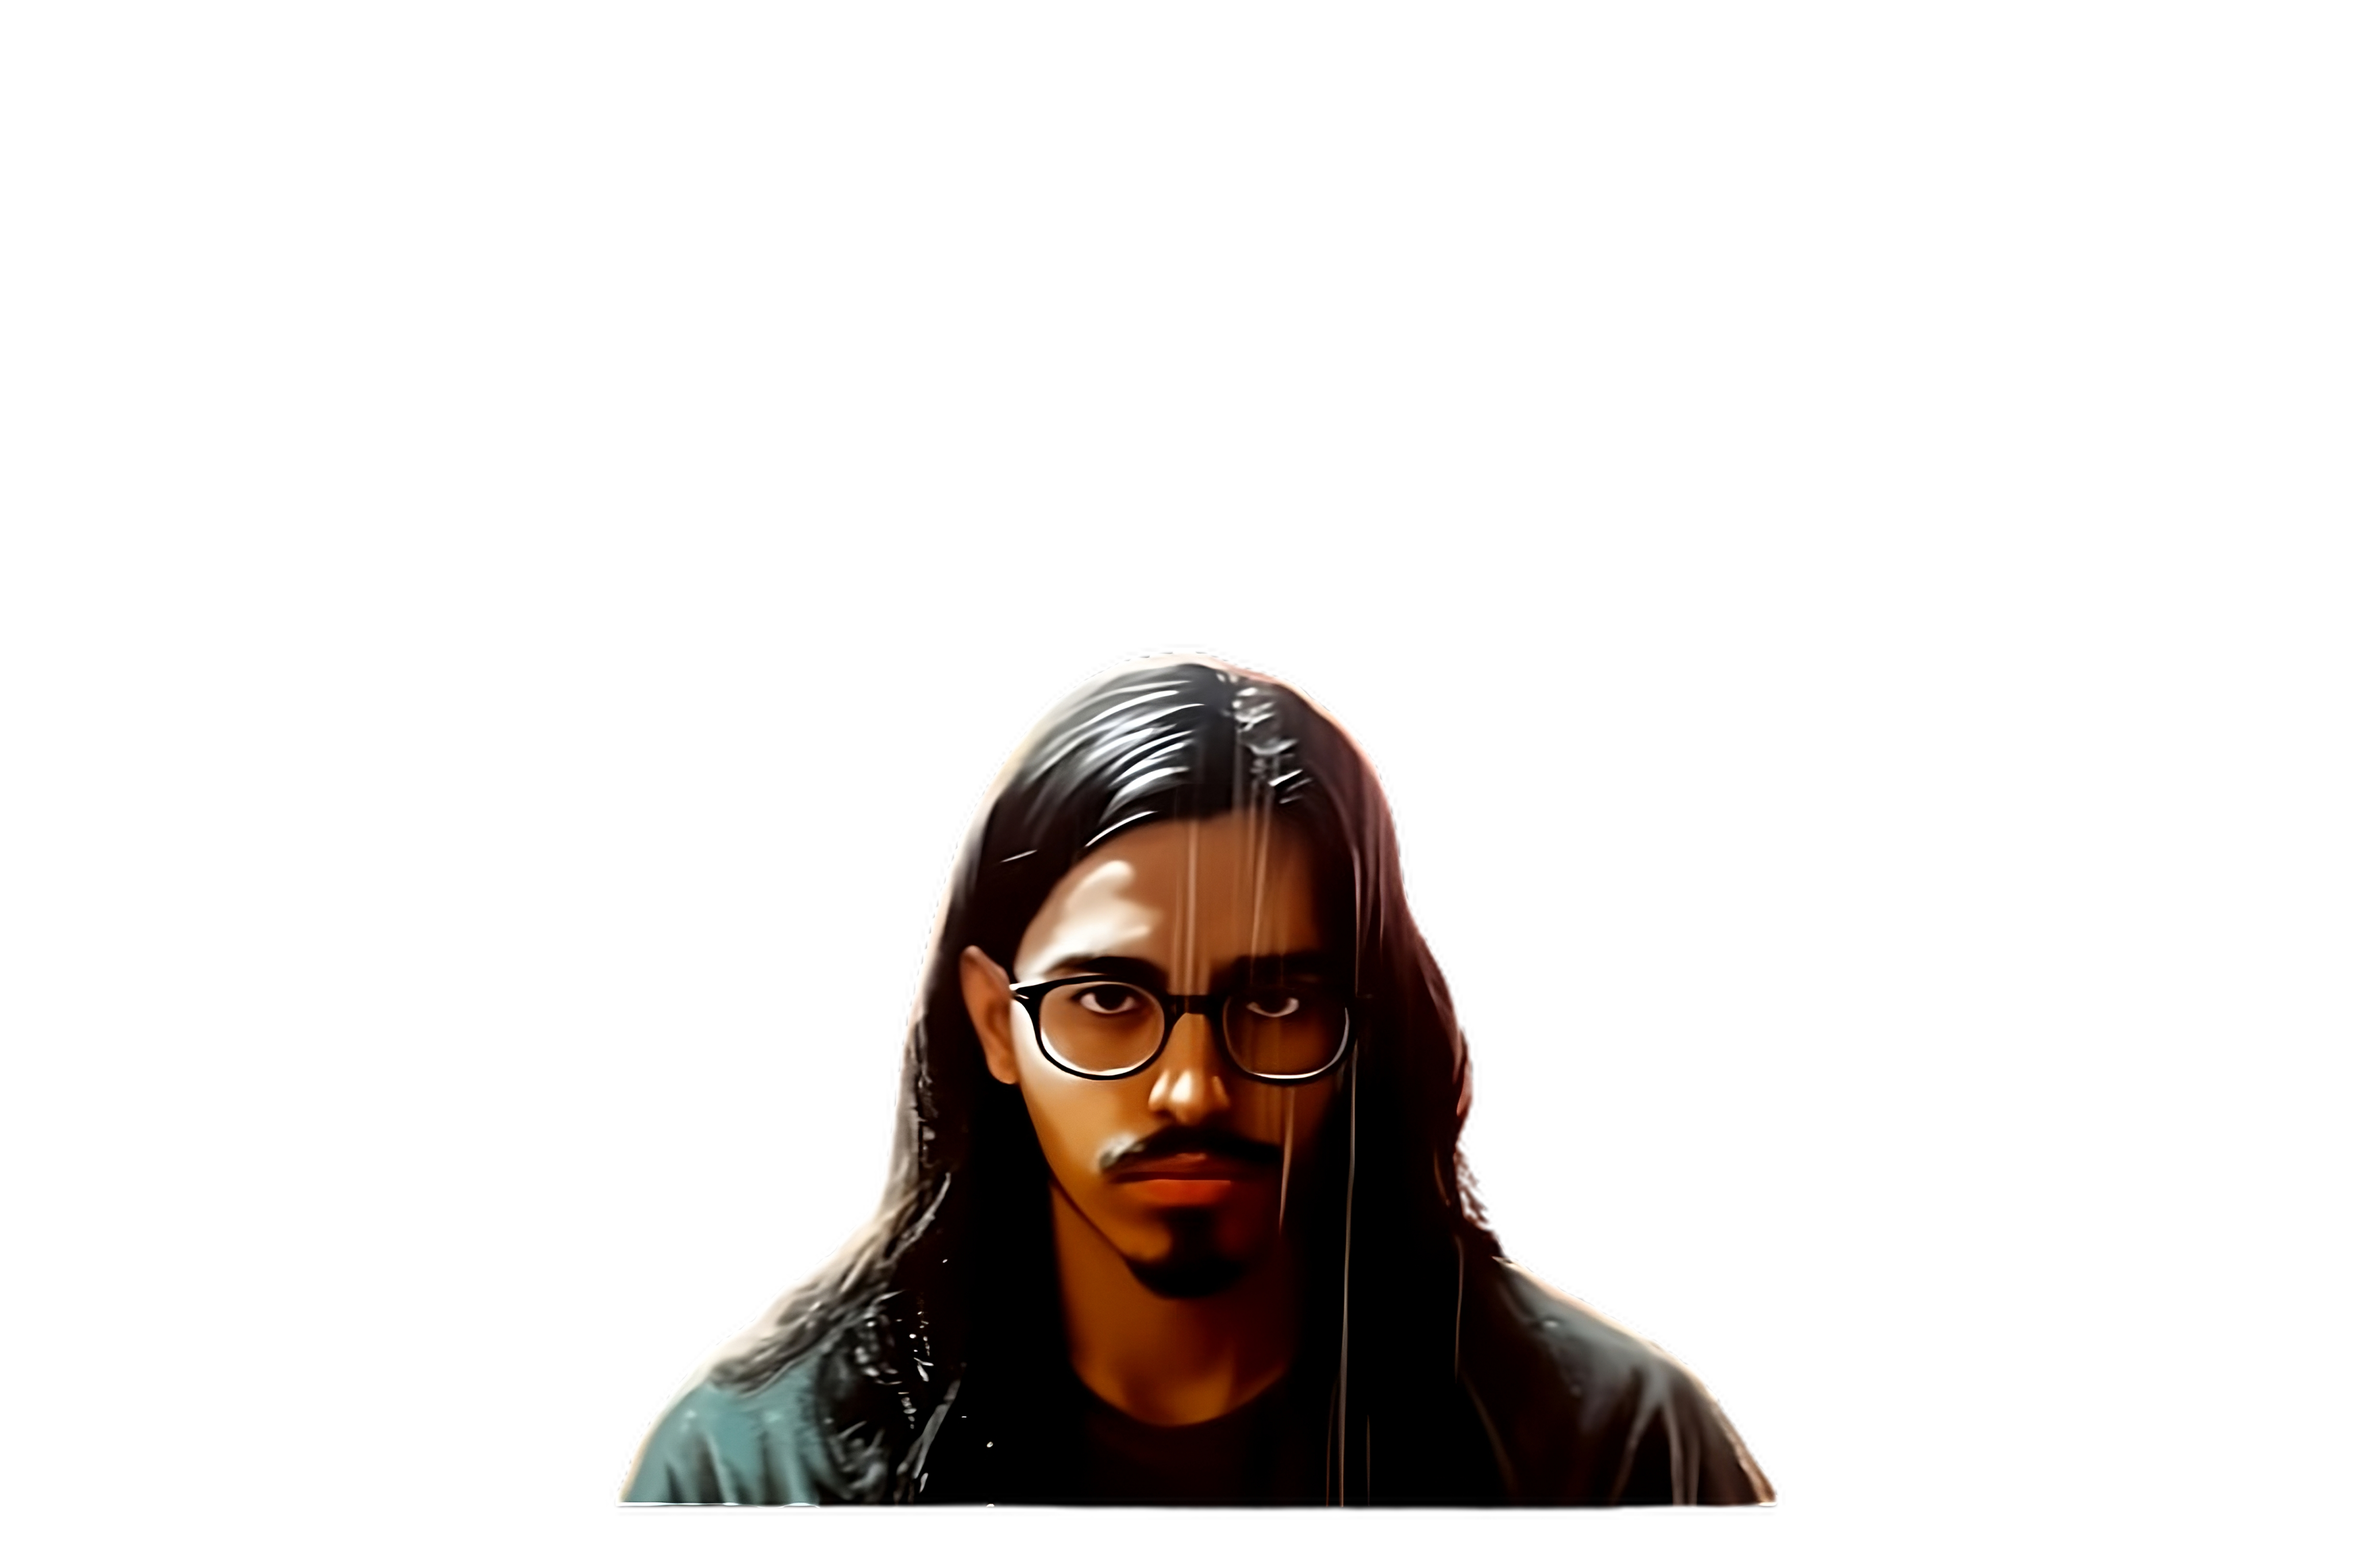
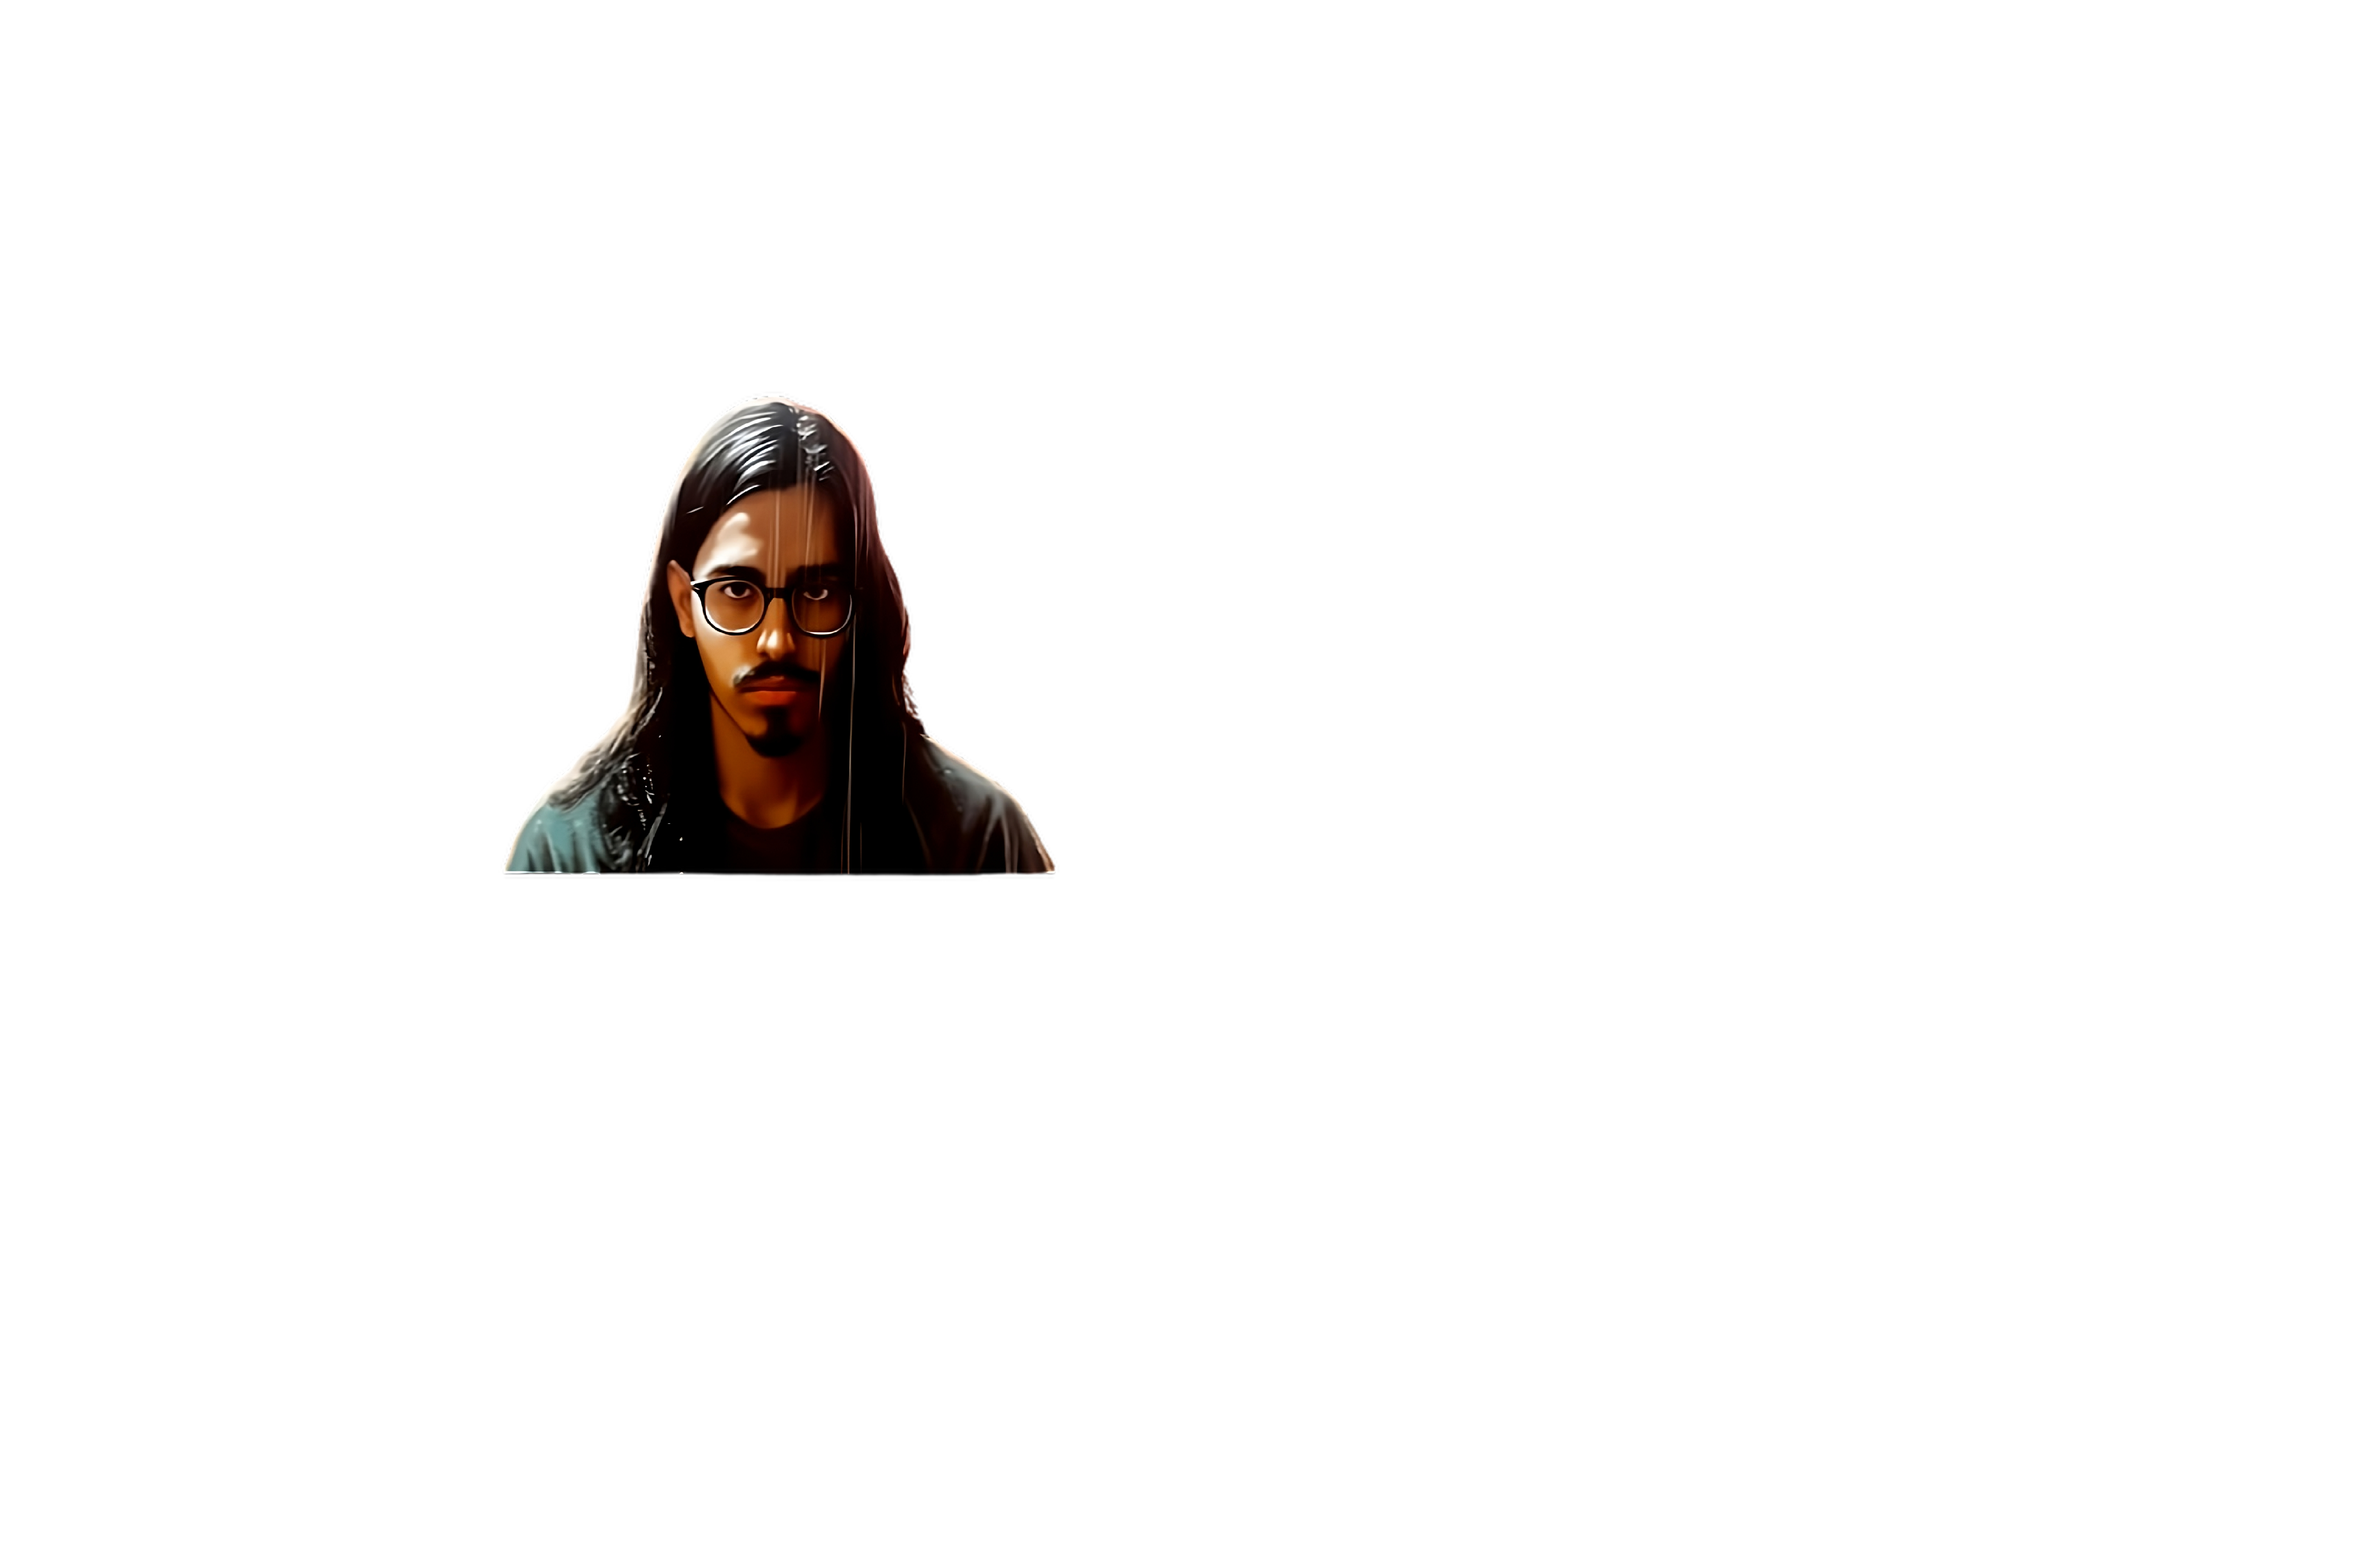
FIX: Hero section, the hero img

Changed region(s): [[0.2188, 0.25, 0.75, 0.9688]]

diff --git a/src/components/Hero.jsx b/src/components/Hero.jsx
@@ -8,11 +8,7 @@ import { styles } from '../styles'
 const Hero = () => {
 	return (
 		<>
-			<div className='hero-img'>
-				<img src={heroImg} alt={heroImg}/>
-			</div>
 			<section className='relative w-full h-screen mx-auto'>
-
 				<div className={`${styles.paddingX} absolute inset-0
 					top-[120px] max-w-7xl mx-auto
 					flex flex-row items-start gap-5`}
@@ -32,13 +28,10 @@ const Hero = () => {
 						</h2>
 					</div>
 				</div>
-
-				
 				{/* <ComputersCanvas/> */}
-
-				{/* Botoncito de scroll */}
+										{/* Botoncito de scroll */}
 				<div className="absolute xs:bottom-10 bottom-32 
-					w-full flex justify-center items-center">
+					w-full flex justify-center items-center left-[600]">
 					<a href="#about">
 						<div className="w-[35] h-[64px] rounded-3x1 border-4
 							border-secondary rounded-full flex justify-center items-start p-2">
@@ -56,8 +49,11 @@ const Hero = () => {
 						</div>
 					</a>
 				</div>
-			</section>
 
+				<div className='hero-img'>
+					<img src={heroImg} alt={heroImg}/>
+				</div>
+			</section>
 		</>
 
 	)

diff --git a/src/index.css b/src/index.css
@@ -20,12 +20,15 @@
 }
 
 .hero-img{
-  background-color: #00cea8;
-  margin-top: -550px;
-  z-index: 99;
+  display: flex;
+  justify-content: end;
+  height: 100%;
+  margin: 0;  
 }
 .hero-img img{
-  object-fit: cover;
+  height: 100%;
+  object-fit: none;
+  object-position: 21% 35%;
 }
 
 .black-gradient {
